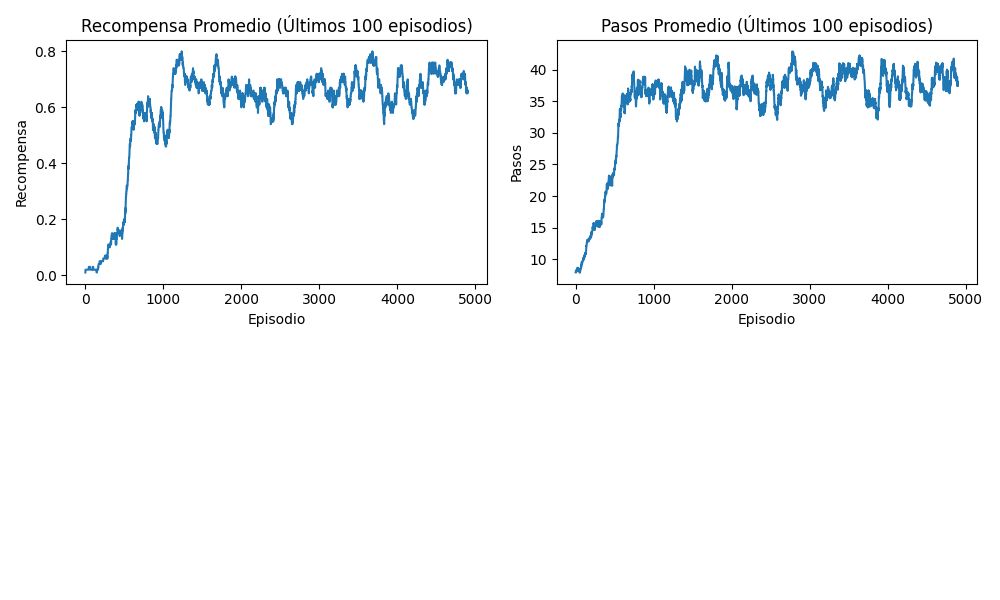
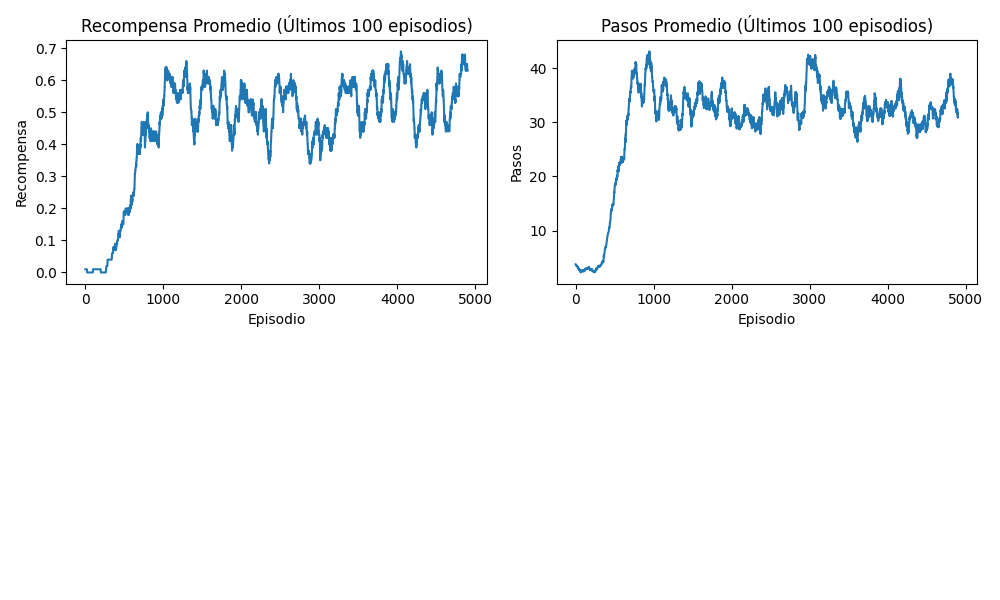
random map generator

diff --git a/generate_map.py b/generate_map.py
@@ -1,0 +1,102 @@
+import random
+import matplotlib.pyplot as plt
+from collections import deque
+
+def generate_random_map(size=4, max_intentos=100, min_holes=4, max_holes=4):
+    """
+    Genera un mapa aleatorio con control de agujeros
+    :param min_holes: Mínimo de agujeros (H) en el mapa (sin contar S/G)
+    :param max_holes: Máximo de agujeros (H) en el mapa (sin contar S/G)
+    """
+    def es_camino_valido(mapa):
+        n = len(mapa)
+        visitado = set()
+        cola = deque([(0, 0)])
+
+        while cola:
+            x, y = cola.popleft()
+            if (x, y) == (n-1, n-1):
+                return True
+            for dx, dy in [(-1,0),(1,0),(0,-1),(0,1)]:
+                nx, ny = x+dx, y+dy
+                if 0<=nx<n and 0<=ny<n and mapa[nx][ny] != 'H' and (nx,ny) not in visitado:
+                    visitado.add((nx, ny))
+                    cola.append((nx, ny))
+        return False
+
+    for _ in range(max_intentos):
+        # Generar mapa base
+        mapa = [['F' for _ in range(size)] for _ in range(size)]
+        mapa[0][0] = 'S'
+        mapa[-1][-1] = 'G'
+
+        # Calcular posiciones válidas para agujeros (excluyendo S y G)
+        posiciones_validas = [(i,j) for i in range(size) for j in range(size) 
+                            if (i,j) not in [(0,0), (size-1, size-1)]]
+
+        # Generar agujeros aleatorios dentro del rango
+        num_holes = random.randint(min_holes, max_holes)
+        holes = random.sample(posiciones_validas, num_holes)
+        
+        for i, j in holes:
+            mapa[i][j] = 'H'
+
+        # Validar y retornar si es válido
+        mapa_str = [''.join(row) for row in mapa]
+        if es_camino_valido(mapa_str):
+            return mapa_str
+
+    raise ValueError(f"No se generó mapa válido en {max_intentos} intentos")
+
+
+
+def plot_map(frozen_map, filename='generated_map.png'):
+    plt.figure(figsize=(6, 6))
+    
+    # Convertir el mapa a una matriz numérica
+    map_matrix = []
+    color_mapping = {'S': 0, 'F': 1, 'H': 2, 'G': 3}
+    for row in frozen_map:
+        map_matrix.append([color_mapping[cell] for cell in row])
+    
+    # Crear mapa de colores personalizado
+    cmap = plt.cm.colors.ListedColormap([
+        '#2ecc71',   # S (Verde)
+        '#3498db',   # F (Azul claro)
+        '#2c3e50',   # H (Azul oscuro)
+        '#f1c40f'    # G (Amarillo/Oro)
+    ])
+    
+    plt.imshow(map_matrix, cmap=cmap, interpolation='nearest')
+    
+    # Añadir anotaciones y leyenda
+    plt.title('Mapa Generado', fontsize=14, pad=20)
+    plt.xticks([])
+    plt.yticks([])
+    
+    # Crear leyenda personalizada
+    legend_elements = [
+        plt.Line2D([0], [0], marker='s', color='w', label='Inicio (S)',
+                  markerfacecolor='#2ecc71', markersize=12),
+        plt.Line2D([0], [0], marker='s', color='w', label='Hielo (F)',
+                  markerfacecolor='#3498db', markersize=12),
+        plt.Line2D([0], [0], marker='s', color='w', label='Agujero (H)',
+                  markerfacecolor='#2c3e50', markersize=12),
+        plt.Line2D([0], [0], marker='s', color='w', label='Meta (G)',
+                  markerfacecolor='#f1c40f', markersize=12)
+    ]
+    
+    plt.legend(handles=legend_elements, bbox_to_anchor=(1.05, 1), 
+             loc='upper left', borderaxespad=0.)
+    
+    
+    plt.text(0, 0, '→', ha='center', va='center', 
+            fontsize=24, color='white')
+    plt.text(len(frozen_map)-1, len(frozen_map[-1])-1, '★', 
+            ha='center', va='center', 
+            fontsize=24, color='white')
+    
+    plt.tight_layout()
+    plt.savefig(filename, bbox_inches='tight')
+    plt.close()
+    print(f"Mapa generado guardado como {filename}")

diff --git a/main.py b/main.py
@@ -3,9 +3,15 @@ import numpy as np
 import matplotlib.pyplot as plt
 import time
 from IPython.display import clear_output
+from generate_map import generate_random_map, plot_map
+
+
+
+random_map = generate_random_map(4)
+plot_map(random_map)
 
 # Crear el entorno Frozen Lake con slippery=True
-env = gym.make('FrozenLake-v1', desc=None, map_name="4x4", is_slippery=True, render_mode="human")
+env = gym.make('FrozenLake-v1', desc=random_map, is_slippery=True, render_mode="human")
 
 # Parámetros del Q-learning optimizados
 alpha = 0.2  # Tasa de aprendizaje 
@@ -28,7 +34,7 @@ success_count = 0
 last_100_rewards = []
 
 # Entrenamiento del agente (utilizamos un entorno sin renderizar para acelerar el entrenamiento)
-train_env = gym.make('FrozenLake-v1', desc=None, map_name="4x4", is_slippery=True)
+train_env = gym.make('FrozenLake-v1', desc=random_map, is_slippery=True)
 
 print("Iniciando entrenamiento...")
 for episode in range(num_episodes):
